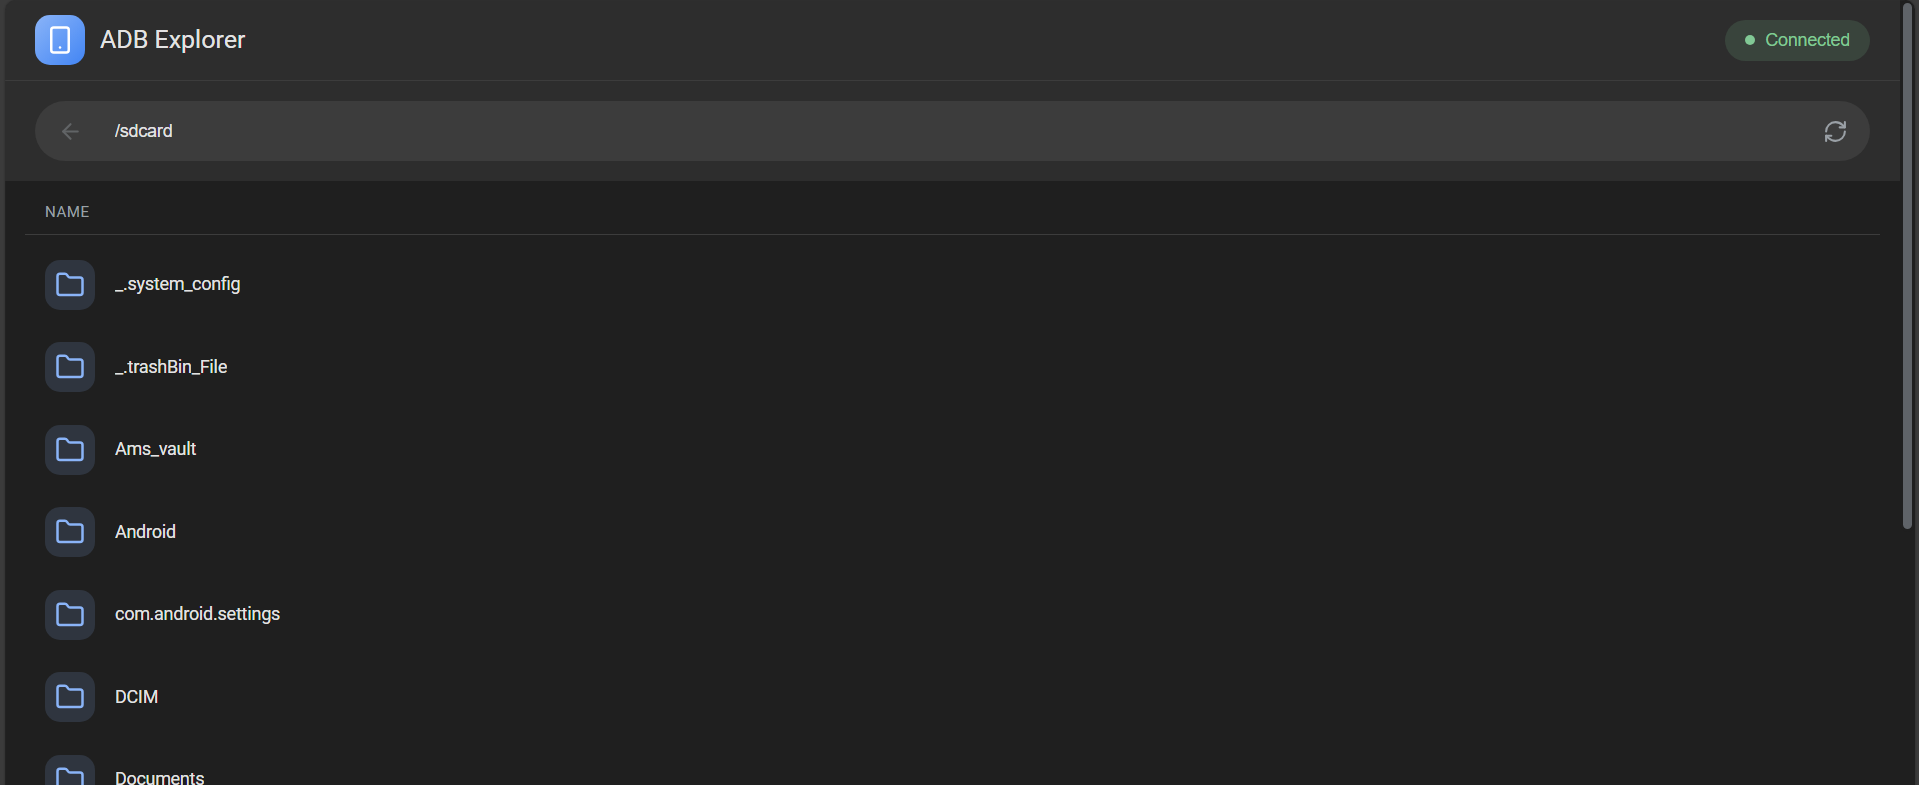
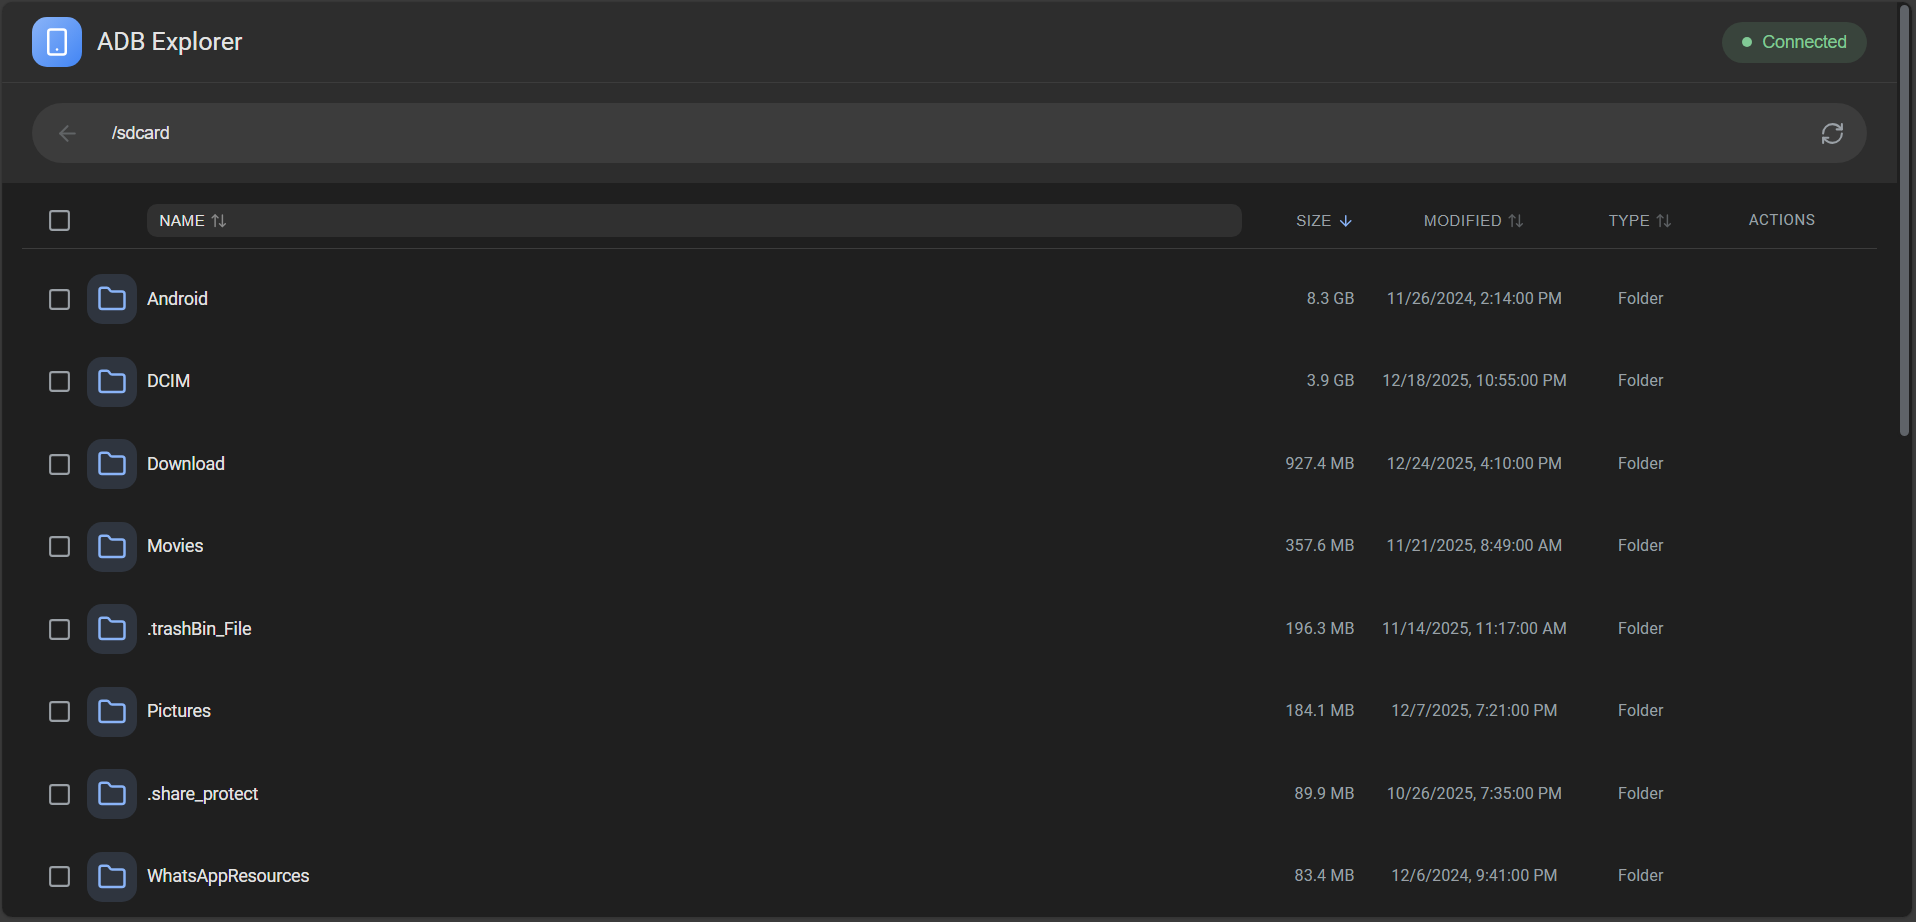
Updated Screenshots

diff --git a/README.md b/README.md
@@ -12,16 +12,9 @@ I created this project because my Android phone sometimes doesn't work with the 
 
 ### 📁 File Explorer
 - Browse directories and files on your Android device with a clean, intuitive interface
-- **Sortable columns**: Name, Size, Modified date, Type (with ascending/descending)
 - Visual file icons for different file types (images, videos, documents, etc.)
-- **Folder sizes**: Displays actual folder sizes with smart caching
+- Breadcrumb navigation for easy path tracking
 - History navigation with back button support
-
-### ✅ Multi-Select & Bulk Actions
-- **Checkbox selection** for files and folders
-- **Select All** checkbox in header
-- **Bulk Delete**: Delete multiple items at once
-- **Bulk Download**: Download multiple files simultaneously
 
 ### ⚡ High-Speed File Transfer
 - **Parallel chunk downloading** for large files (5-10GB)
@@ -47,11 +40,14 @@ I created this project because my Android phone sometimes doesn't work with the 
 
 ## 📸 Screenshots
 
-### File Explorer with Sortable Columns
-![File Explorer](assets/file-explorer.png)
+### Home Screen
+![Home Screen](assets/screenshots/HomeScreen.png)
 
-### Multi-Select with Bulk Actions
-![Multi-Select](assets/multi-select.png)
+### File & Folder Navigation
+![Files and Folders](assets/screenshots/FileAndFolders.png)
+
+### Built-in Media Viewer
+![Built-in File Viewer](assets/screenshots/BuildInFileViewer.png)
 
 ---
 
